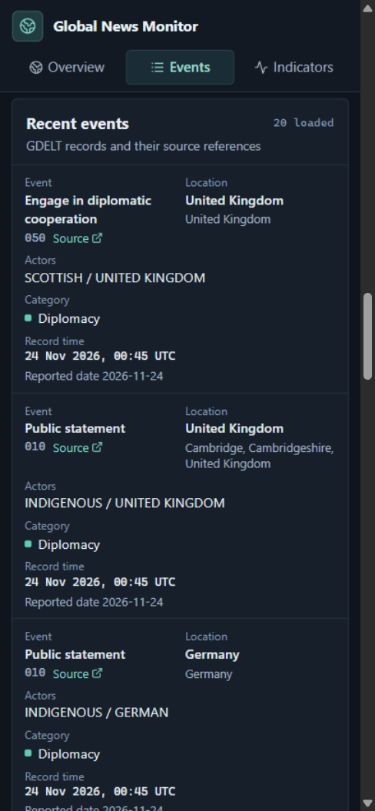
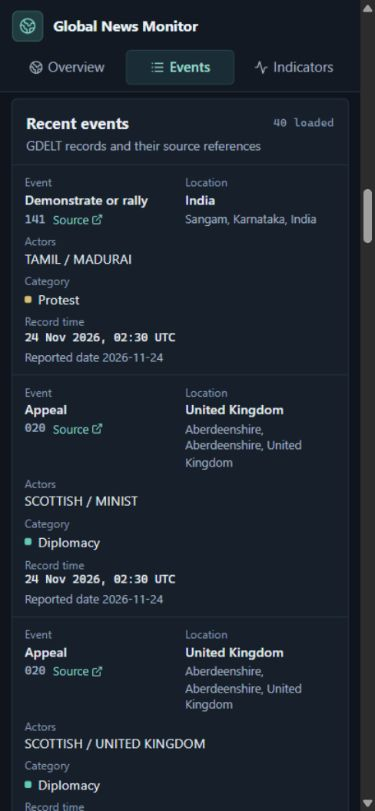
Document verified Azure production deployment

diff --git a/docs/DEPLOYMENT.md b/docs/DEPLOYMENT.md
@@ -1,27 +1,25 @@
 # Deploy Global News Monitor
 
-Deployment is pending a hosting choice and account authorization. The
-templates in this repository are prepared for review and have not provisioned
-any resources. Costs below are estimates in USD checked November 23, 2026,
-before tax, domain renewals, or usage overages.
+Production is hosted in Azure North Central US under Azure for Students.
+See the [Azure runbook](#azure-production-deployment) for the deployed services,
+rollout commands, and security checks. Hosting estimates are in USD and were
+checked November 23, 2026. Taxes, domain renewals, and usage overages may add cost.
 
-## Hosting options
+## Hosting options evaluated
 
 | Option | Estimated recurring cost | Tradeoff |
 | --- | --- | --- |
 | Oracle Cloud Always Free VM with Compose | $0 if an eligible VM, storage, and hostname are available | One instance runs every service. A1 capacity is region-dependent and Oracle may reclaim idle instances. Use the student domain benefit for a hostname if eligible. |
-| Azure for Students VM with Compose | $0 out of pocket while eligible credit covers the VM, disk, and IP | The Pack lists $100 in Azure credit. Azure documents a 12-month term and student renewal eligibility. Size and regional charges determine how long the credit lasts. |
+| Azure for Students VM and Flexible Server | Estimated $0 to $3.65 per 730-hour month within the listed free allowances | Deployed. The Azure bill will confirm whether the Standard static IPv4 uses the free IP meter. The eligible student offer has a time limit. |
 | Vercel Hobby + Render Free API + Neon Free + GitHub Actions | $0 within limits, demo only | Render sleeps after 15 idle minutes and can take about one minute to wake. Neon Free provides 1 GB per project and 100 CU-hours per month. Public-repository GitHub Actions schedules can be delayed or dropped and disable after 60 days without repository activity. The database fits only a few days of this workload. |
 | Hetzner CX23 in Europe with Compose | $6.49 compute + $0.60 IPv4, totaling $7.09 if capacity is available | 2 vCPU, 4 GB RAM, 40 GB SSD. The product page showed it as unavailable during review. Hosting in Europe also adds network latency for visitors in the U.S. |
 | DigitalOcean Basic VM with Compose | $12 for 1 vCPU, 2 GiB RAM, 50 GiB SSD and 2,000 GiB transfer. Optional weekly VM backup adds $2.40, totaling $14.40. | One always-running host with OS, database and backup maintenance. The $6 1 GiB plan has less memory for PostgreSQL, ETL, and concurrent chart requests. |
 | Vercel Hobby + managed Render | About $15.50 at light use, itemized below | Less server maintenance. The small managed database needs a workload check, and cron and bandwidth can raise cost. |
 
-Start with an eligible Always Free VM if capacity and reclaim risk are
-acceptable. Azure student credit offers a time-limited alternative. Check
-the $7.09 Hetzner plan if European hosting is acceptable. The $12 DigitalOcean
-VM is the fallback with a published plan in this budget. Both use a single-instance
-deployment, so maintenance and provider outages can interrupt service.
-Confirm the hostname renewal price and optional backup before ordering.
+Azure was chosen for the student allowances, a dedicated PostgreSQL server,
+and the Azure-managed hostname. The estimates for alternate providers are
+available for future migration planning. Single-instance deployments can be
+interrupted by maintenance or provider outages.
 
 - [Oracle Always Free compute and storage](https://docs.oracle.com/en-us/iaas/Content/FreeTier/freetier_topic-Always_Free_Resources.htm)
 - [GitHub Student Developer Pack and domain offers](https://education.github.com/pack)
@@ -176,20 +174,60 @@ direct browser connection to another origin requires adding only the
 approved frontend origins to FastAPI's CORS configuration. Database URLs
 remain in Compose or Render service environment settings.
 
-## Azure for Students — split VM and database
+## Azure production deployment
 
-The Azure plan uses a North Central US `Standard_B2ats_v2` Ubuntu VM and
-PostgreSQL 17 Flexible Server on Burstable `Standard_B1ms`. Confirm account
-eligibility for VM hours, the 64 GiB P6 OS disk, and 32 GB database and
-backup allowances before creating resources. One Standard static IPv4
-accounts for the estimated $3.65 monthly charge when those allowances apply.
-Use a single database instance with 32 GiB of storage, seven-day backup
-retention, and local backups. Leave high availability, geo-redundant
-backups, and storage auto-grow disabled for this configuration. Check
-storage and backup usage after initial ingestion and during steady state.
+The North Central US deployment runs Caddy, FastAPI, and the 15-minute
+scheduler on an Ubuntu 24.04 `Standard_B2ats_v2` VM. Azure manages the
+dedicated PostgreSQL 17 Flexible Server on Burstable `Standard_B1ms`.
+The VM has 2 vCPUs, 1 GiB of RAM, and a 64 GiB Premium SSD LRS OS disk
+at tier P6. The database has 32 GiB of storage, seven days of local backups,
+and storage auto-grow, high availability, and geo-redundant backups disabled.
 
-- Restrict SSH to the operator's IP and require key-only login. Test Caddy
-  via an SSH tunnel with its host ports bound to loopback. The API has no
+The deployment is in `rg-global-news-monitor-prod`. [Public dashboard](https://global-news-monitor.northcentralus.cloudapp.azure.com/)
+
+| Resource | Name |
+| --- | --- |
+| Ubuntu VM | `vm-gnm-prod` |
+| P6 OS disk | `osdisk-gnm-prod` |
+| PostgreSQL Flexible Server and database | `gnm-postgres-ncus-202611`, `gnm` |
+| VNet and app subnet | `vnet-gnm-prod`, `snet-gnm-app` |
+| NIC and network security group | `nic-gnm-prod`, `nsg-gnm-prod` |
+| Standard static public IPv4 | `pip-gnm-prod` |
+
+The student subscription lists 750 VM hours and 750 B1ms database hours
+per month, the P6 disk allowance, 32 GB each of database and backup storage,
+1,500 public IP hours, and 15 GB of outbound data. These allowances expire
+November 23, 2027 for this deployment. Azure reports the VM disk as P6,
+which matches [Microsoft's free VM disk configuration](https://marketplace.microsoft.com/en-us/product/microsoft.freeaccountvirtualmachine?tab=overview).
+Estimate $0 if the Standard static IPv4 is covered and usage stays within
+the allowances. For the IPv4, budget $3.65 per 730 hours at retail until
+the posted meter is visible. The free-services API returned an empty list
+during launch, and the usage-details API rejected the student offer. Review
+**Education → Overview** and
+**Subscriptions → Azure for Students → View all free services** after
+usage posts. Microsoft describes a one- to two-day delay for
+[free-service metering](https://learn.microsoft.com/en-us/azure/cost-management-billing/manage/check-free-service-usage).
+Keep the spending limit on and the $5 budget alerts enabled.
+Track VM outbound bytes and the database's storage and backup usage as
+history accumulates. A budget alert reports spending and leaves services
+running under the subscription's spending limit.
+
+During launch, Azure Monitor reported a database storage peak of 3.9 GiB,
+about 17 MiB of backups, and about 33 MiB of VM outbound traffic in the
+observed hour. This snapshot covers initial catch-up and build traffic.
+
+Provision a resource group, VNet, subnet, network security group, VM NIC,
+and one Standard static IPv4 with an Azure DNS label. Use an x64 Gen2 Ubuntu
+image, Trusted Launch with Secure Boot and vTPM, and an SSH public key.
+Install Docker Engine with its Compose plugin from the signed Docker apt
+repository. The host uses a 2 GiB swap file on its existing P6 disk. Docker
+stores its images locally, and Caddy stores its certificate state in a
+persistent Docker volume. The deployment uses no registry or separate
+build VM.
+
+- Restrict SSH to the operator's IP, require key-only login, and disable
+  direct root SSH. Test Caddy via an SSH tunnel with its host ports bound
+  to loopback. The API has no
   published host port. After the audit, bind Caddy to the public interface
   and open TCP 80 and 443 for ACME validation. Verify the issued HTTPS
   certificate and HTTP redirect from an external client before sharing the URL.
@@ -214,19 +252,69 @@ storage and backup usage after initial ingestion and during steady state.
   printing connection strings.
 
 ```bash
-docker compose --env-file deploy/.env -f compose.yaml -f deploy/compose.azure.yaml config --quiet
-docker compose --env-file deploy/.env -f compose.yaml -f deploy/compose.azure.yaml up -d --no-build
+docker compose -p app --env-file deploy/.env -f compose.yaml -f deploy/compose.azure.yaml config --quiet
+docker compose -p app --env-file deploy/.env -f compose.yaml -f deploy/compose.azure.yaml up -d --no-build --wait
 ```
 
-Build `linux/amd64` images on a machine with more memory and load them onto
-the small VM before starting the services. The Azure overlay
-disables the local PostgreSQL service by default and runs the API with a
-read-only login, read-only transactions, and a 12-second statement timeout.
-The ingestion login has write access only to the ingestion tables it uses.
-Verify every API route and a real ingestion cycle before opening Caddy to
-the public. Capture image vulnerability scan results at the deployed digests,
-and confirm NSG rules, DB firewall, read/write permissions, and TLS on the
-actual infrastructure.
+Build `linux/amd64` images off the host where possible. For this release
+the Go link step exceeded the VM's practical memory budget. The Caddy
+binary was compiled off-host with the versions in
+[`Dockerfile.web`](../deploy/Dockerfile.web), transferred by SSH, and packaged
+on the VM. To reproduce that build, use `xcaddy` from its official release and
+copy the resulting `proxy-build` directory to the host before packaging.
+
+```bash
+mkdir -p ../proxy-build/usr/bin
+CGO_ENABLED=0 GOOS=linux GOARCH=amd64 xcaddy build v2.11.9 \
+  --output ../proxy-build/usr/bin/caddy \
+  --replace golang.org/x/net=golang.org/x/net@v0.62.0
+
+# With the binary and source on the VM, run from the repo root.
+docker buildx build --load --platform linux/amd64 \
+  --build-context proxy-build=../proxy-build -t app-web -f deploy/Dockerfile.web .
+docker compose -p app --env-file deploy/.env --parallel 1 -f compose.yaml \
+  -f deploy/compose.azure.yaml build --pull api
+```
+
+The overlay disables local PostgreSQL and runs the API with a read-only
+login, read-only transactions, and a 12-second statement timeout. The
+ingestion login can write to the tables and sequences it uses. Docker
+rotates local service logs and restarts services after host or process
+restarts. Before opening Caddy to the public, verify the API routes and a
+real ingestion cycle. Scan both images at the deployed digests and check
+NSG rules, database firewall rules, permissions, and TLS.
+
+### Production verification
+
+The managed database reached `0007_idempotency_hardening` with PostgreSQL 17
+and PostGIS 3.6.4. Both runtime roles used hostname-verified TLS 1.3. The API
+role was denied a write, and a client outside the VM's database firewall rule
+could not connect. The network security group exposes only TCP 80 and 443 to
+the internet. Production responses served a trusted Let's Encrypt certificate,
+redirected HTTP to HTTPS, and included HSTS and a dashboard content security
+policy. The public FastAPI routes were reached through Caddy.
+
+Trivy scanned the exact images used for launch. It reported no detected
+secrets, critical advisories, or high-severity advisories with an available
+fix. Thirteen distinct high-severity Debian advisories and one Caddy
+dependency advisory remained without fixes. The Caddy configuration does
+not accept user-supplied JSON Web Keys. Rebuild and rescan as upstream
+patches become available.
+
+On November 24, 2026 UTC, the production scheduler started at 02:30 and
+ran again at 02:45 and 03:00 without a restart or manual ingest. Each run
+completed eight exports, including the most recent export and older
+unprocessed slots. The production database had 32 completed checkpoints
+and 24,162 distinct raw records with matching normalized rows at 03:00.
+
+The browser verification covered the map, combined country and category
+filtering, cursor pagination, and the responsive event feed. The open
+dashboard advanced from the 02:45 source export to 03:00, keeping United
+States and Politics selected while the count increased from 609 to 799.
+A public API check verified a fixed UTC window, coverage, and populated
+spike and tension routes. Initial coverage was partial and built up via
+scheduled catch-up. Single-instance availability and sustained load at
+the full retention window have yet to be measured.
 
 ## Public verification before publishing the URL
 

diff --git a/docs/TECHNICAL_WALKTHROUGH.md b/docs/TECHNICAL_WALKTHROUGH.md
@@ -195,13 +195,46 @@ checkpoints expired. PostgreSQL autovacuum can reuse space from deleted rows.
 Checkpoints, run records, and quality summaries remain as smaller operational
 records. See the [deployment guide](DEPLOYMENT.md) for cost, sizing, and rollout.
 
-The single-VM configuration uses Docker Compose, persistent PostgreSQL
-storage, and Caddy for TLS and same-origin API routing. The managed alternative
-uses Vercel, a Render FastAPI service, Render Postgres, and Render cron. Both
-keep the database off the browser path. PostgreSQL provides transactions,
-constraints, SQL aggregation, and geospatial types in one service. FastAPI and
-the static Vite build keep deployment small. Their division makes it possible
-to test real SQL independently and ship the same dashboard to either host.
+In Azure production, Docker Compose on one North Central US VM runs Caddy,
+FastAPI, and [`run_scheduler.py`](../scripts/run_scheduler.py). Caddy
+terminates HTTPS, serves the Vite build, and forwards `/api/` to FastAPI
+over the Compose network. The browser uses one origin for both. The
+only public web ports are Caddy's 80 and 443. SSH accepts keys from an
+operator IP, and FastAPI has no host port.
+
+```mermaid
+flowchart LR
+    Browser -->|HTTPS| Caddy
+    subgraph VM["Azure Ubuntu VM"]
+        Caddy -->|"/api/"| FastAPI
+        Scheduler["15-minute scheduler"]
+    end
+    Scheduler -->|Fetch HTTPS exports| GDELT
+    Scheduler -->|Write over TLS| PostgreSQL["Azure PostgreSQL + PostGIS"]
+    FastAPI -->|Read over TLS| PostgreSQL
+```
+
+PostgreSQL lives on an Azure Flexible Server with PostGIS. Keeping the
+database separate leaves the 1 GiB VM's memory available for serving
+requests and processing exports. It also separates database backups and
+updates from app deploys. The database firewall accepts the VM's exact
+static IPv4, and the connections verify the PostgreSQL server certificate
+and hostname. [`compose.azure.yaml`](../deploy/compose.azure.yaml) uses
+separate credentials for FastAPI and ingestion. The
+[`azure-roles.sql`](../deploy/azure-roles.sql) grants SELECT to the API
+on four tables and permits only the worker's required writes. A separate
+owner applies Alembic migrations and has no credential in either running
+container.
+
+The scheduler starts with the VM's Docker services and polls every 15
+minutes. This is separate from the browser's freshness polling. A closed
+tab, a local computer shutdown, or an API restart does not stop collection.
+The VM's memory was enough to run the services during launch, but the
+Caddy build spent much of its time swapping during Go linking. Compiling
+the patched binary off-host and scanning the packaged Linux image kept
+build-time memory pressure away from the running app.
+The [deployment guide](DEPLOYMENT.md#azure-production-deployment) covers
+the resource sizing, billing meters, and production checks.
 
 ## Where to start when debugging
 

diff --git a/README.md b/README.md
@@ -2,11 +2,11 @@
 
 Global News Monitor ingests structured GDELT event exports into PostgreSQL and serves an interactive dashboard through FastAPI and React. Explore coded event activity by country, category, and time, and inspect the source references behind individual records.
 
-**Deployment status:** Local verification is complete. Public hosting is pending a hosting choice and account authorization.
+**Live dashboard:** [Global News Monitor](https://global-news-monitor.northcentralus.cloudapp.azure.com/)
 
 ![Global News Monitor desktop dashboard showing regional activity and source coverage](docs/dashboard-desktop.jpg)
 
-The screenshot shows 31,989 real GDELT records in a 24-hour selection with 25 of 96 expected exports present. [Mobile event feed](docs/dashboard-mobile.jpg) · [Deployment guide and cost comparison](docs/DEPLOYMENT.md) · [Technical walkthrough](docs/TECHNICAL_WALKTHROUGH.md)
+The production screenshot shows 9,174 GDELT records with 14 of 96 expected exports in the selected 24-hour window during initial catch-up. The coverage count distinguishes gaps from observed zero activity. [Mobile event feed](docs/dashboard-mobile.jpg) · [Deployment guide](docs/DEPLOYMENT.md#azure-production-deployment) · [Technical walkthrough](docs/TECHNICAL_WALKTHROUGH.md)
 
 ## Project Overview
 
@@ -39,7 +39,11 @@ It also exposes:
 | Storage and migrations | PostgreSQL, PostGIS, psycopg, SQLAlchemy, Alembic |
 | Read API | FastAPI, Uvicorn |
 | Interface | React, TypeScript, Vite, Leaflet, Recharts |
-| Deployment templates | Docker Compose with Caddy, or Render with a Vercel static frontend |
+| Production | Azure Ubuntu VM with Caddy, FastAPI, and the scheduler in Docker Compose, plus Azure Database for PostgreSQL Flexible Server |
+
+The Azure scheduler runs every 15 minutes with a 24-hour catch-up window and
+17 days of rolling event detail. Caddy serves the static Vite build and
+proxies `/api/` over the same HTTPS origin.
 
 High-level flow:
 
@@ -478,7 +482,8 @@ frontend tests, and produced a successful Vite build. The local sample used
 Both indicator routes returned populated results. Historical coverage was
 sparse, so the magnitude of a spike in this sample is unreliable as a
 comparison with full-day activity. See the [deployment guide](docs/DEPLOYMENT.md)
-for measured storage and local request times.
+for measured storage and local request times, and the [production verification](docs/DEPLOYMENT.md#production-verification)
+for the public endpoints, scheduler, and image scan results.
 
 ## Future Improvements
 
